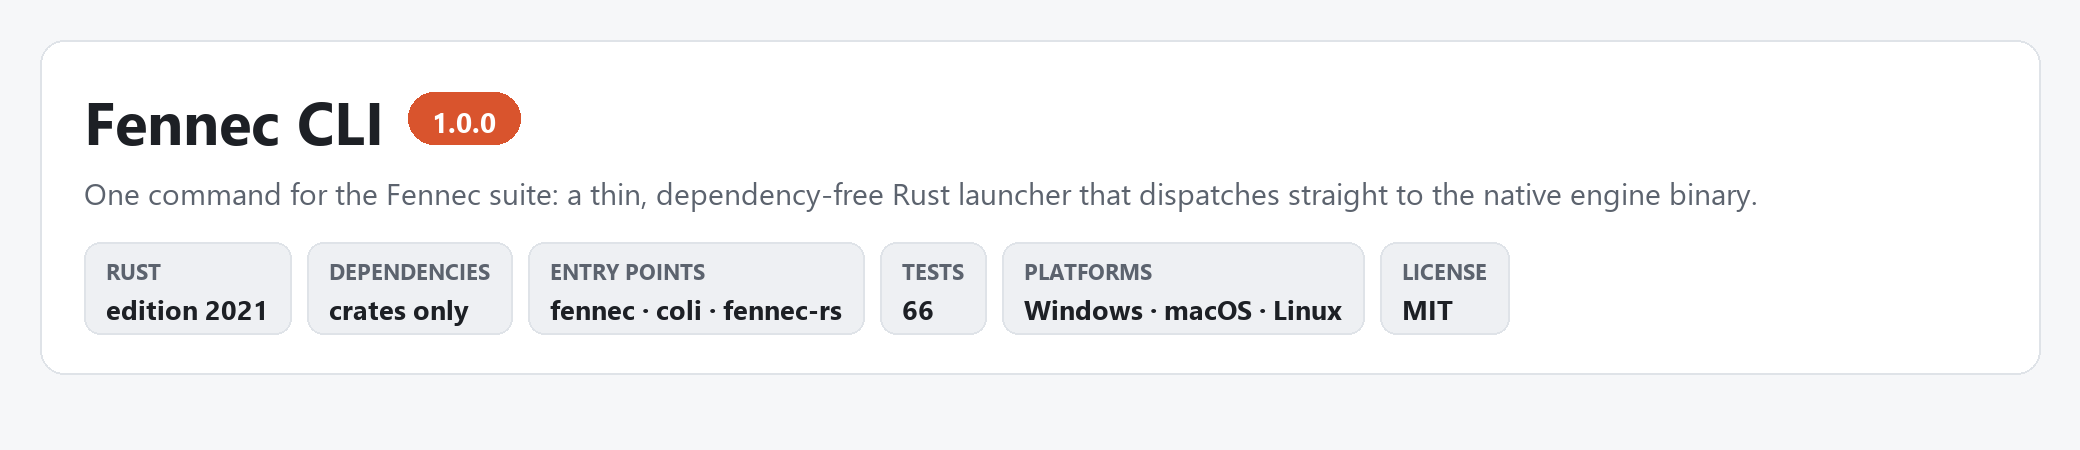
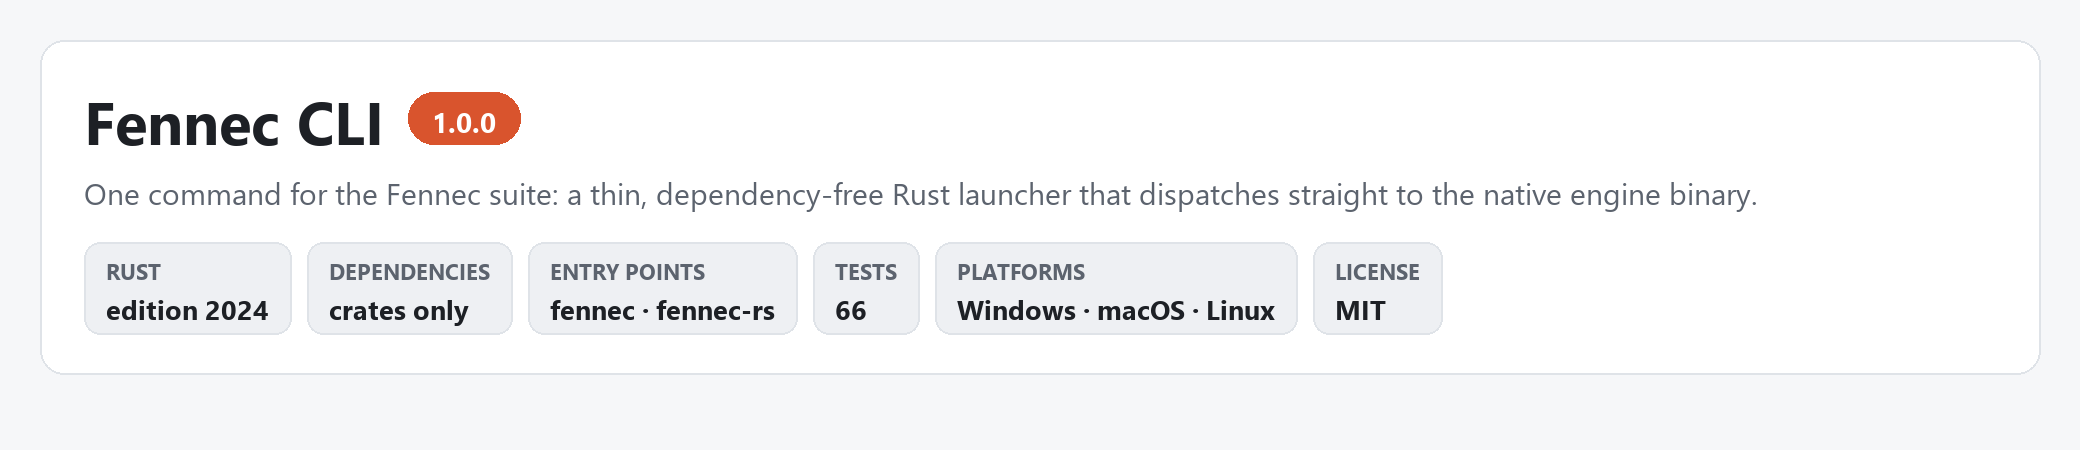
build: edition 2024, with the kernel32 extern block made unsafe
rust-version 1.85. The only edition-2024 break here is the mandatory `unsafe
extern`, so the launcher's process-memory and timing imports are now declared
inside an unsafe extern block.

diff --git a/src/mem.rs b/src/mem.rs
@@ -24,7 +24,7 @@ fn sample() -> (Option<i64>, Option<i64>, Option<i64>) {
         peak_pagefile_usage: usize,
     }
 
-    extern "system" {
+    unsafe extern "system" {
         fn K32GetProcessMemoryInfo(process: *mut c_void, counters: *mut Counters, cb: u32) -> i32;
         fn GetProcessTimes(process: *mut c_void, creation: *mut u64, exit: *mut u64,
                            kernel: *mut u64, user: *mut u64) -> i32;
